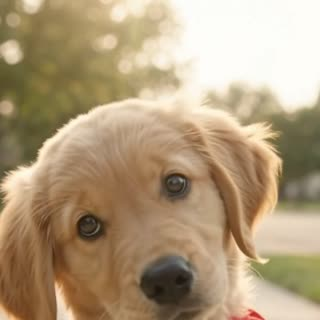
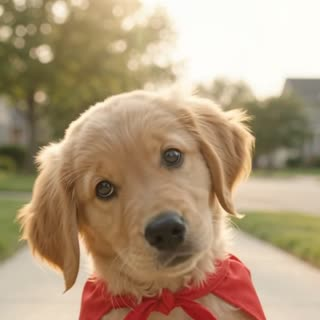
Reminders tile: wider crop; share tile plays once then holds [20261002021946]

diff --git a/404.html b/404.html
@@ -802,7 +802,7 @@ function slotMedia(key){
   if (s.loop) {
     var once = !window['_vpSlot_' + key];
     return '<div class="slotmedia" data-slot="' + key + '">' +
-      '<video src="' + s.loop + '" poster="' + s.poster + '" muted autoplay loop playsinline preload="auto"></video>' +
+      '<img src="' + s.poster + '" alt="">' +
       (once ? '<video class="slotonce" src="' + s.video + '" poster="' + s.poster + '" muted autoplay playsinline preload="auto"></video>' : '') +
       '</div>';
   }
@@ -815,7 +815,8 @@ function wireSlots(){
     var key = v.parentNode.getAttribute('data-slot');
     window['_vpSlot_' + key] = true;
     var done = function(){ v.style.opacity = 0; setTimeout(function(){ if (v.parentNode) v.parentNode.removeChild(v); }, 400); };
-    v.addEventListener('ended', done); v.addEventListener('error', done);
+    v.addEventListener('ended', function(){ try { v.pause(); } catch (e) {} });   // played once: hold the last frame
+    v.addEventListener('error', done);
     var p = v.play(); if (p && p.catch) p.catch(done);
   });
 }
@@ -2501,7 +2502,7 @@ function screenPack(mode, topic0){
   }).catch(function(e){ document.getElementById('board').textContent = 'The pack is napping: ' + e.message; });
 }
 
-var APP_VERSION = "20261002021215";
+var APP_VERSION = "20261002021946";
 (function(){
   try {
     fetch('/version.json?t=' + Date.now(), { cache: 'no-store' }).then(function(r){ return r.json(); }).then(function(j){

diff --git a/app.html b/app.html
@@ -802,7 +802,7 @@ function slotMedia(key){
   if (s.loop) {
     var once = !window['_vpSlot_' + key];
     return '<div class="slotmedia" data-slot="' + key + '">' +
-      '<video src="' + s.loop + '" poster="' + s.poster + '" muted autoplay loop playsinline preload="auto"></video>' +
+      '<img src="' + s.poster + '" alt="">' +
       (once ? '<video class="slotonce" src="' + s.video + '" poster="' + s.poster + '" muted autoplay playsinline preload="auto"></video>' : '') +
       '</div>';
   }
@@ -815,7 +815,8 @@ function wireSlots(){
     var key = v.parentNode.getAttribute('data-slot');
     window['_vpSlot_' + key] = true;
     var done = function(){ v.style.opacity = 0; setTimeout(function(){ if (v.parentNode) v.parentNode.removeChild(v); }, 400); };
-    v.addEventListener('ended', done); v.addEventListener('error', done);
+    v.addEventListener('ended', function(){ try { v.pause(); } catch (e) {} });   // played once: hold the last frame
+    v.addEventListener('error', done);
     var p = v.play(); if (p && p.catch) p.catch(done);
   });
 }
@@ -2501,7 +2502,7 @@ function screenPack(mode, topic0){
   }).catch(function(e){ document.getElementById('board').textContent = 'The pack is napping: ' + e.message; });
 }
 
-var APP_VERSION = "20261002021215";
+var APP_VERSION = "20261002021946";
 (function(){
   try {
     fetch('/version.json?t=' + Date.now(), { cache: 'no-store' }).then(function(r){ return r.json(); }).then(function(j){

diff --git a/index.html b/index.html
@@ -802,7 +802,7 @@ function slotMedia(key){
   if (s.loop) {
     var once = !window['_vpSlot_' + key];
     return '<div class="slotmedia" data-slot="' + key + '">' +
-      '<video src="' + s.loop + '" poster="' + s.poster + '" muted autoplay loop playsinline preload="auto"></video>' +
+      '<img src="' + s.poster + '" alt="">' +
       (once ? '<video class="slotonce" src="' + s.video + '" poster="' + s.poster + '" muted autoplay playsinline preload="auto"></video>' : '') +
       '</div>';
   }
@@ -815,7 +815,8 @@ function wireSlots(){
     var key = v.parentNode.getAttribute('data-slot');
     window['_vpSlot_' + key] = true;
     var done = function(){ v.style.opacity = 0; setTimeout(function(){ if (v.parentNode) v.parentNode.removeChild(v); }, 400); };
-    v.addEventListener('ended', done); v.addEventListener('error', done);
+    v.addEventListener('ended', function(){ try { v.pause(); } catch (e) {} });   // played once: hold the last frame
+    v.addEventListener('error', done);
     var p = v.play(); if (p && p.catch) p.catch(done);
   });
 }
@@ -2501,7 +2502,7 @@ function screenPack(mode, topic0){
   }).catch(function(e){ document.getElementById('board').textContent = 'The pack is napping: ' + e.message; });
 }
 
-var APP_VERSION = "20261002021215";
+var APP_VERSION = "20261002021946";
 (function(){
   try {
     fetch('/version.json?t=' + Date.now(), { cache: 'no-store' }).then(function(r){ return r.json(); }).then(function(j){
